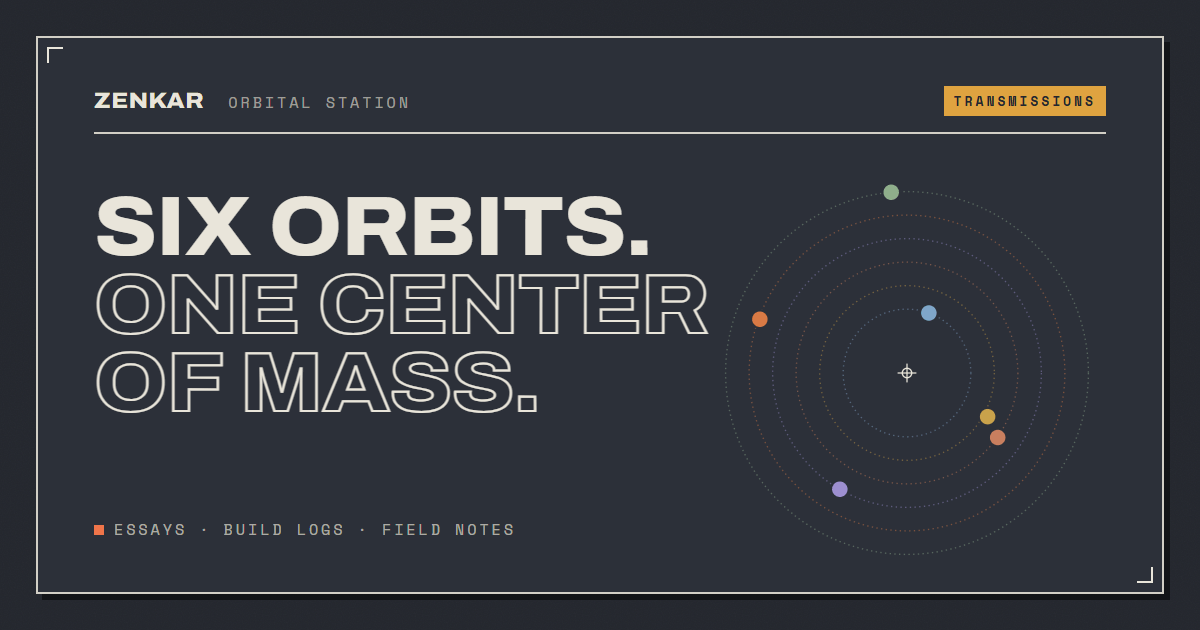
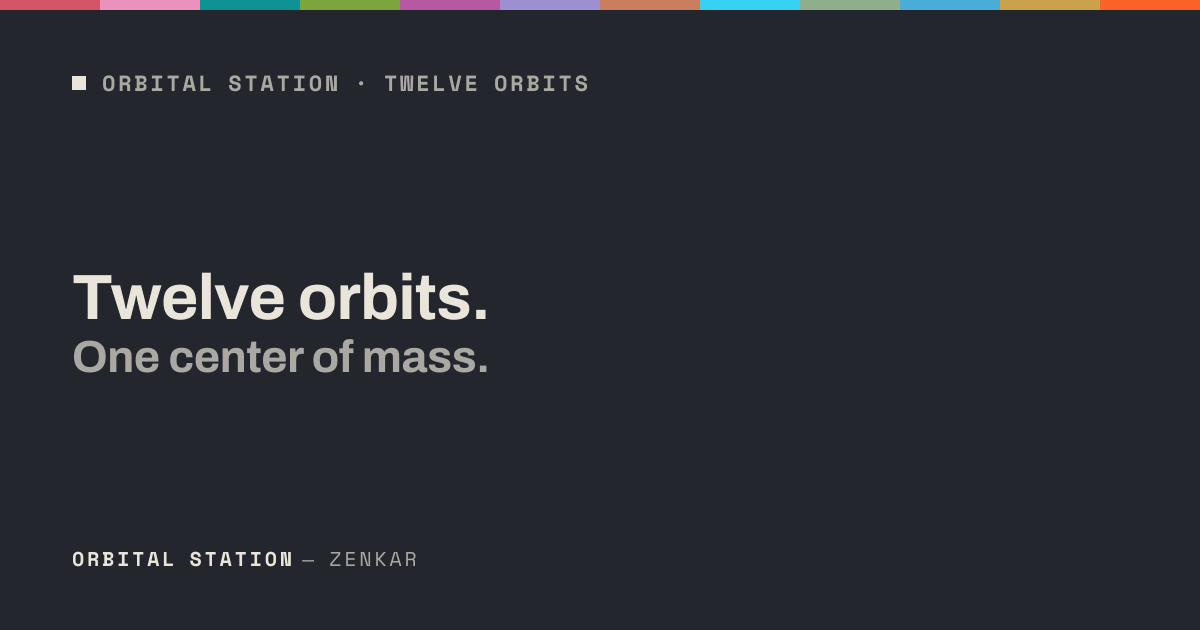
PLAY-01, READ-02, PLAT-07: fix stale kit clock field, og.png, CI sandbox flag, doc typo
- PLAY-01: src/pages/manual/kit.astro's updateBadges() now refreshes each
  row's .kit-clock value (skipped while that field itself has focus), so
  dragging or keyboard-nudging an orbit body no longer leaves the row
  showing a stale clock next to an already-updated percentage. New e2e
  regression test in tests/site/kit.e2e.test.mjs.
- READ-02: public/og.png (the site-wide fallback social card) said "SIX
  ORBITS" with 6 dots while the site has twelve. Added
  scripts/generate-og.mjs (`npm run og`), which renders it the same
  Satori-to-sharp way as the per-page cards, from the live orbit count and
  colours in site.config.ts, so it can't go stale silently again;
  tests/site/social-cards.test.mjs now fails the build if it drifts.
  Regenerated public/og.png. Documented in README.md and CLAUDE.md.
- PLAT-07 (CI): tests/site/kit.e2e.test.mjs's puppeteer.launch() was
  missing --no-sandbox, unlike its sibling analytics.test.mjs — added, so
  it doesn't fail/hang on GitHub's ubuntu-latest CI runners.
- README.md: fixed a missing backslash in the two new `npm run queue`
  vault-path examples ("C:Zenkar's Vault" -> "C:\Zenkar's Vault").

Not fixed: docs/M1-SPECS/m1-criteria.md's exit-criteria wording (a
gitignored, local-only planning doc, not part of the repo) mentioned a
CLEARED-stamp gate that is PRIV-07/M4 scope, not M1/GROW-08 — corrected
the wording locally, but it isn't tracked by git so there's nothing to
commit for it.

diff --git a/README.md b/README.md
@@ -191,8 +191,8 @@ public orbits. Notes in sensitive folders never appear in the Base; a queued one
 at a phase-only or hidden orbit, is flagged. The same report from a terminal:
 
 ```
-npm run queue -- --vault "C:Zenkar's Vault"                # the queue + launch count; exits 1 if a note is flagged
-npm run queue -- --vault "C:Zenkar's Vault" --write-base   # also write the Base
+npm run queue -- --vault "C:\Zenkar's Vault"                # the queue + launch count; exits 1 if a note is flagged
+npm run queue -- --vault "C:\Zenkar's Vault" --write-base   # also write the Base
 ```
 
 A `Transmission Queue.base` you made yourself (without the publisher's header) is never overwritten.
@@ -294,10 +294,14 @@ orbit's colour as the one strong accent, the mono meta line, the Archivo title, 
 station's name and author at the foot — built with [Satori](https://github.com/vercel/satori)
 and rasterized with `sharp`). How far a long title steps its size down before it's
 ellipsized lives separately in `src/lib/og-title-fit.ts`, unit-tested in
-`tests/site/og-title-fit.test.mjs`. Regenerate `public/og.png` by hand if you redesign
-it — keep it at 1200×630 and well under 100 KB (`sharp(...).png({ palette: true,
-compressionLevel: 9, effort: 10 })` got the current one from 157 KB down to ~70 KB with
-no visible loss).
+`tests/site/og-title-fit.test.mjs`.
+
+`public/og.png`, the fallback, isn't built automatically like the rest — it's generated
+by `scripts/generate-og.mjs` from the live orbit count and colours in `site.config.ts`
+(same Satori-to-`sharp` pipeline, kept at 1200×630 and well under 100 KB). Run `npm run
+og` to regenerate it after adding, removing or recolouring an orbit, or after changing
+its own layout; `tests/site/social-cards.test.mjs` fails the build if it's ever left
+stale.
 
 ---
 

diff --git a/CLAUDE.md b/CLAUDE.md
@@ -29,6 +29,7 @@ repo, and nothing in the repo should link to it. Read `docs/PRD.md` Appendix C
 | `npm run scan:media` | PRIV-04: scan committed `public/` and `src/content/` binaries for leftover metadata; add `-- --fix` to scrub in place |
 | `npm run queue -- --vault <dir>` | GROW-08: the transmission queue (`station-queue` notes) by target orbit + the launch count (8 across 5); `--write-base` writes `Transmission Queue.base`. Read-only on the vault otherwise — only ever against a throwaway vault in tests |
 | `npm run fonts` | READ-07: regenerate the subset fonts (`src/assets/fonts/`, `src/styles/fonts.css`) from the Fontsource packages; rerun after upgrading one (`tests/site/fonts.test.mjs` fails when they drift) |
+| `npm run og` | READ-02: regenerate the site-wide fallback social card (`public/og.png`) from `src/site.config.ts`; rerun after adding/removing/recolouring an orbit (`tests/site/social-cards.test.mjs` fails when it's stale) |
 
 ## Environment quirks (this machine, Windows 11)
 
